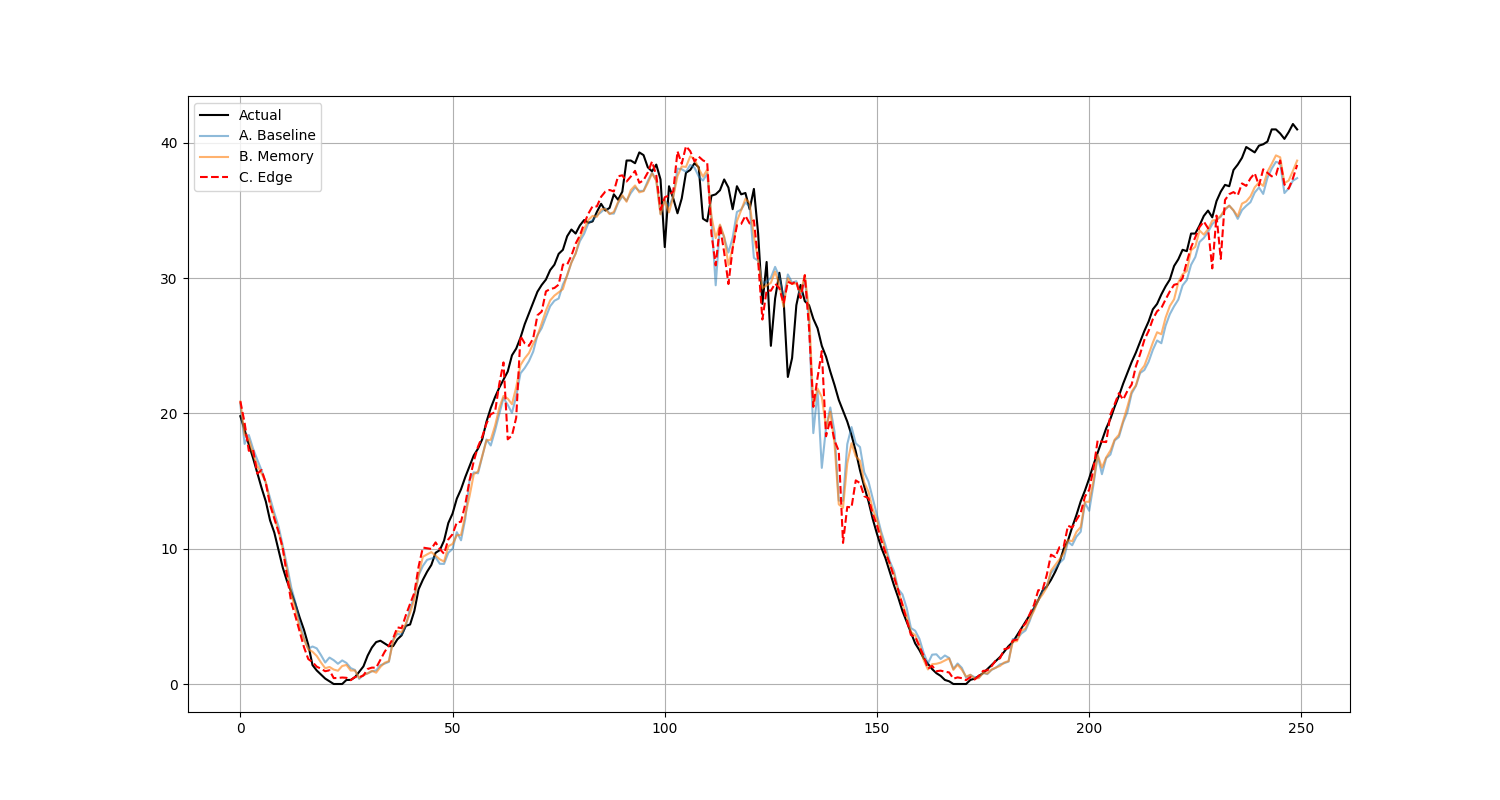
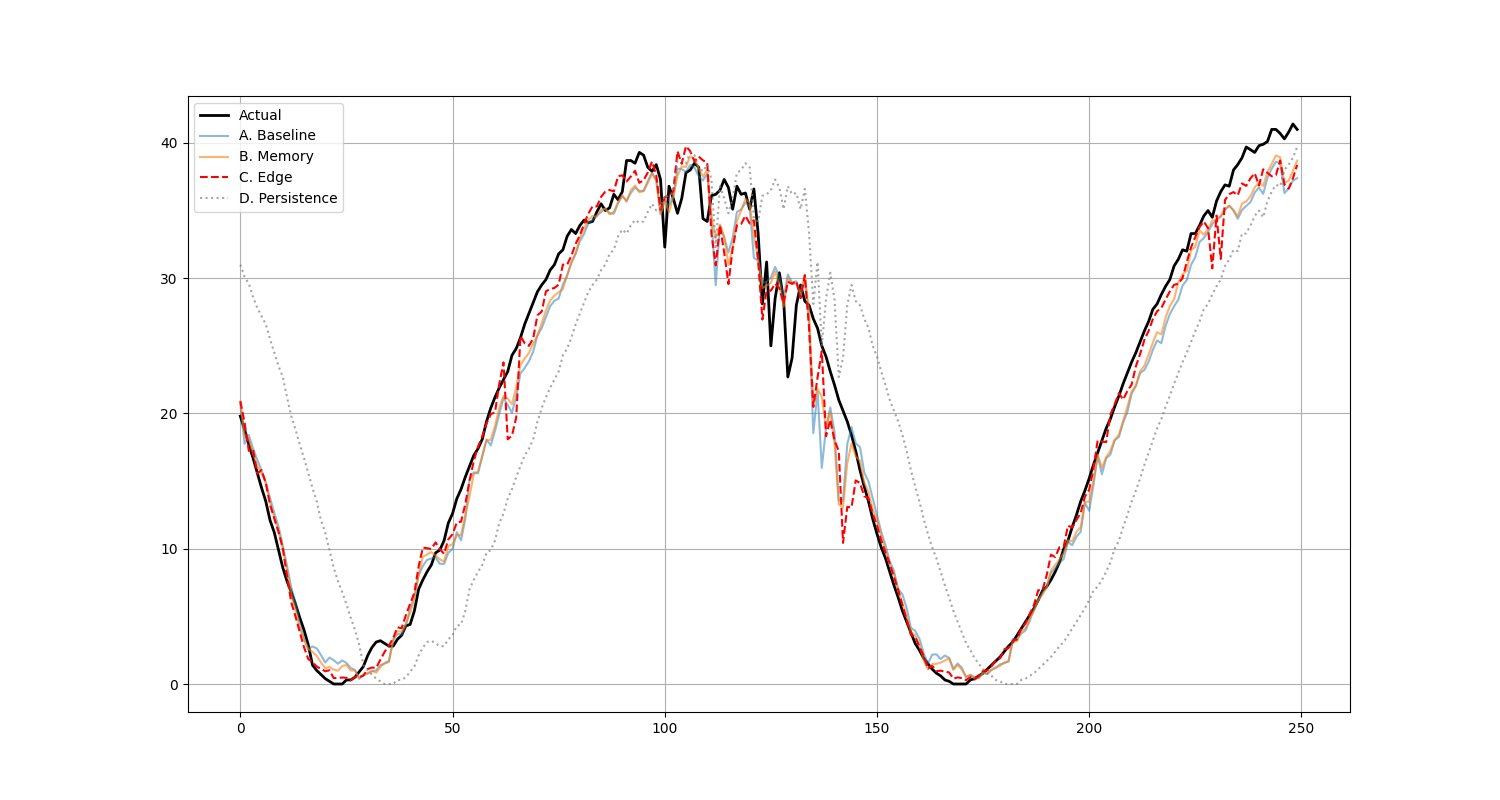
persistence 모델도 시각화 추가

diff --git a/train_model.py b/train_model.py
@@ -119,10 +119,11 @@ def run_comparison(sn):
     
     plt.figure(figsize=(15, 8))
     start_idx, end_idx = 400, 650
-    plt.plot(actual[start_idx:end_idx], label='Actual', color='black')
+    plt.plot(actual[start_idx:end_idx], label='Actual', color='black', linewidth=2)
     plt.plot(results['Baseline'][start_idx:end_idx], label='A. Baseline', alpha=0.5)
     plt.plot(results['Memory'][start_idx:end_idx], label='B. Memory', alpha=0.6)
     plt.plot(results['Edge'][start_idx:end_idx], label='C. Edge', color='red', linestyle='--')
+    plt.plot(pred_pers[start_idx:end_idx], label='D. Persistence', color='gray', linestyle=':', alpha=0.7)
     plt.legend(); plt.grid(True)
     plt.savefig(f'final_comparison_{sn}_weather.png'); plt.close()
 
